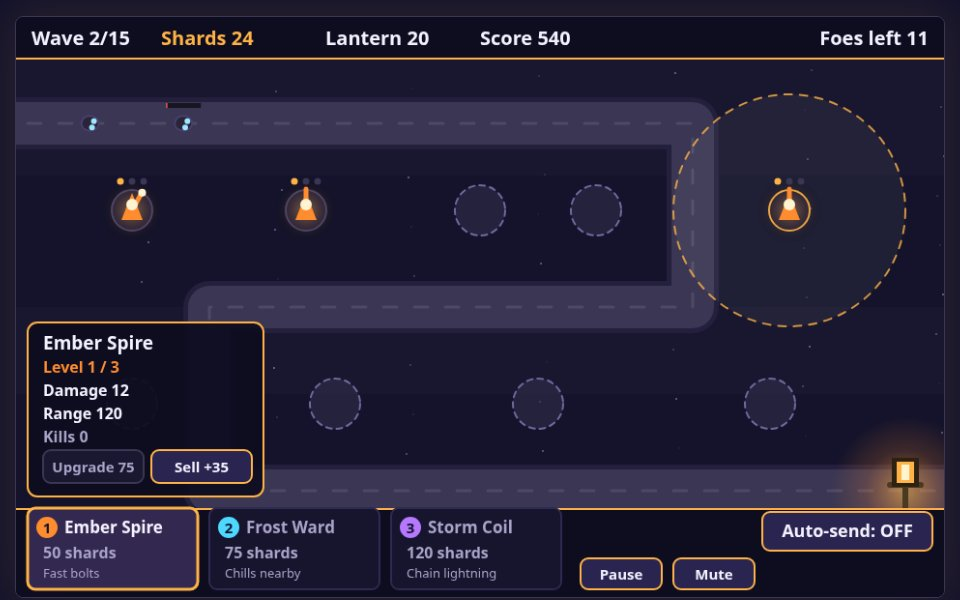
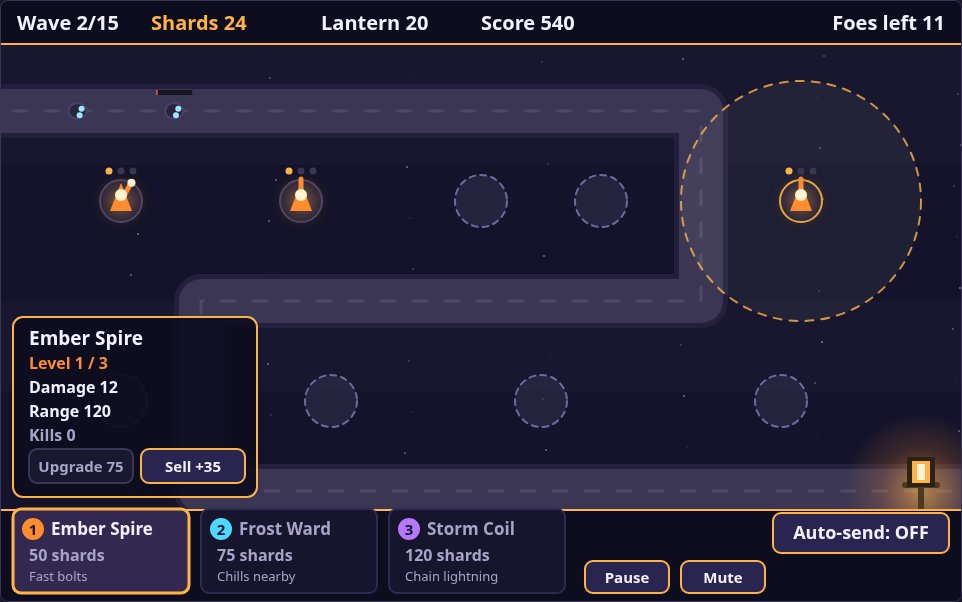
Visuals: ?shot=defeat staging (real loss, wave 3) + re-render 4 screenshots
- shots.js: stageDefeat plays a one-ember, never-upgraded build forward
  until EVENT_DEFEAT (seed 1 loses on wave 3, score 840); falls back to
  a staged defeat (lives 0, real wave/score) if the cap is hit, same
  pattern as stageVictory. 'defeat' added to stageShot's switch.
  main.js needed no change: it passes the shot name straight through.
- Defeat screen pixel-verified: 'THE LANTERN FALLS', wave 3, score 840,
  waves cleared 2/15, Best 840, 'Play again' button; click restarts
  into a fresh run (Wave 0, 20 lives). No render.js change needed.
- Screenshots re-rendered at seed 1, JPEG q85, 960x600: start 49476 B,
  play 64671 B, upgrade 63818 B, victory 53933 B. Staged state
  identical to the originals (victory score still 26630).
  NOTE: re-rendered against HEAD 6899630 — no balance commit had
  landed yet, so these match the pre-balance game.

diff --git a/game/src/shots.js b/game/src/shots.js
@@ -1,4 +1,4 @@
-// LANTERNFALL — the screenshot scenes behind ?shot=start|play|upgrade|victory.
+// LANTERNFALL — the screenshot scenes behind ?shot=start|play|upgrade|victory|defeat.
 //
 // Each scene plays the real rules forward from a fresh world, steered by a
 // small deterministic autopilot: it spends shards on towers, sends waves as
@@ -210,6 +210,44 @@ function stageUpgrade(world, ui) {
   return { screen: 'play', best: 0 };
 }
 
+function stageDefeat(world, ui) {
+  beginRun(world);
+  // A deliberately weak build: one ember, never upgraded, waves sent as
+  // soon as the build phase allows. With 20 lives and scaling waves the
+  // lantern should fall on its own; the fallback below only stages the
+  // tally if the run outlasts the step cap.
+  const outcome = steer(
+    world,
+    () => {
+      const current = stateOf(world);
+      if (current.waveState === 'build') {
+        if (!towerOnPlot(world, 0)) tryCall(world, 'buildTower', 0, 'ember');
+        tryCall(world, 'sendWave');
+      }
+    },
+    () => false,
+    VICTORY_STEP_CAP,
+  );
+  const state = stateOf(world);
+  if (outcome.lost) {
+    return { screen: 'defeat', best: state.score };
+  }
+
+  // The weak build survived the cap: stage a plausible defeat position
+  // instead. The wave reached and the score are from the real run; only
+  // the lantern's fall is set, the same fallback pattern as stageVictory.
+  state.lives = 0;
+  state.waveState = 'build';
+  if (Array.isArray(state.enemies)) state.enemies.length = 0;
+  if (Array.isArray(state.projectiles)) state.projectiles.length = 0;
+  if (Array.isArray(state.spawnQueue)) state.spawnQueue.length = 0;
+  if (Array.isArray(state.particles)) state.particles.length = 0;
+  if (Array.isArray(state.floaters)) state.floaters.length = 0;
+  state.spawnTimer = 0;
+  state.waveTime = 0;
+  return { screen: 'defeat', best: state.score };
+}
+
 function stageVictory(world, ui) {
   beginRun(world);
   const outcome = steer(world, () => basicDecide(world), () => false, VICTORY_STEP_CAP);
@@ -255,6 +293,8 @@ export function stageShot(name, world, ui) {
       return stageUpgrade(world, safeUi);
     case 'victory':
       return stageVictory(world, safeUi);
+    case 'defeat':
+      return stageDefeat(world, safeUi);
     default:
       return stageStart(world, safeUi);
   }
